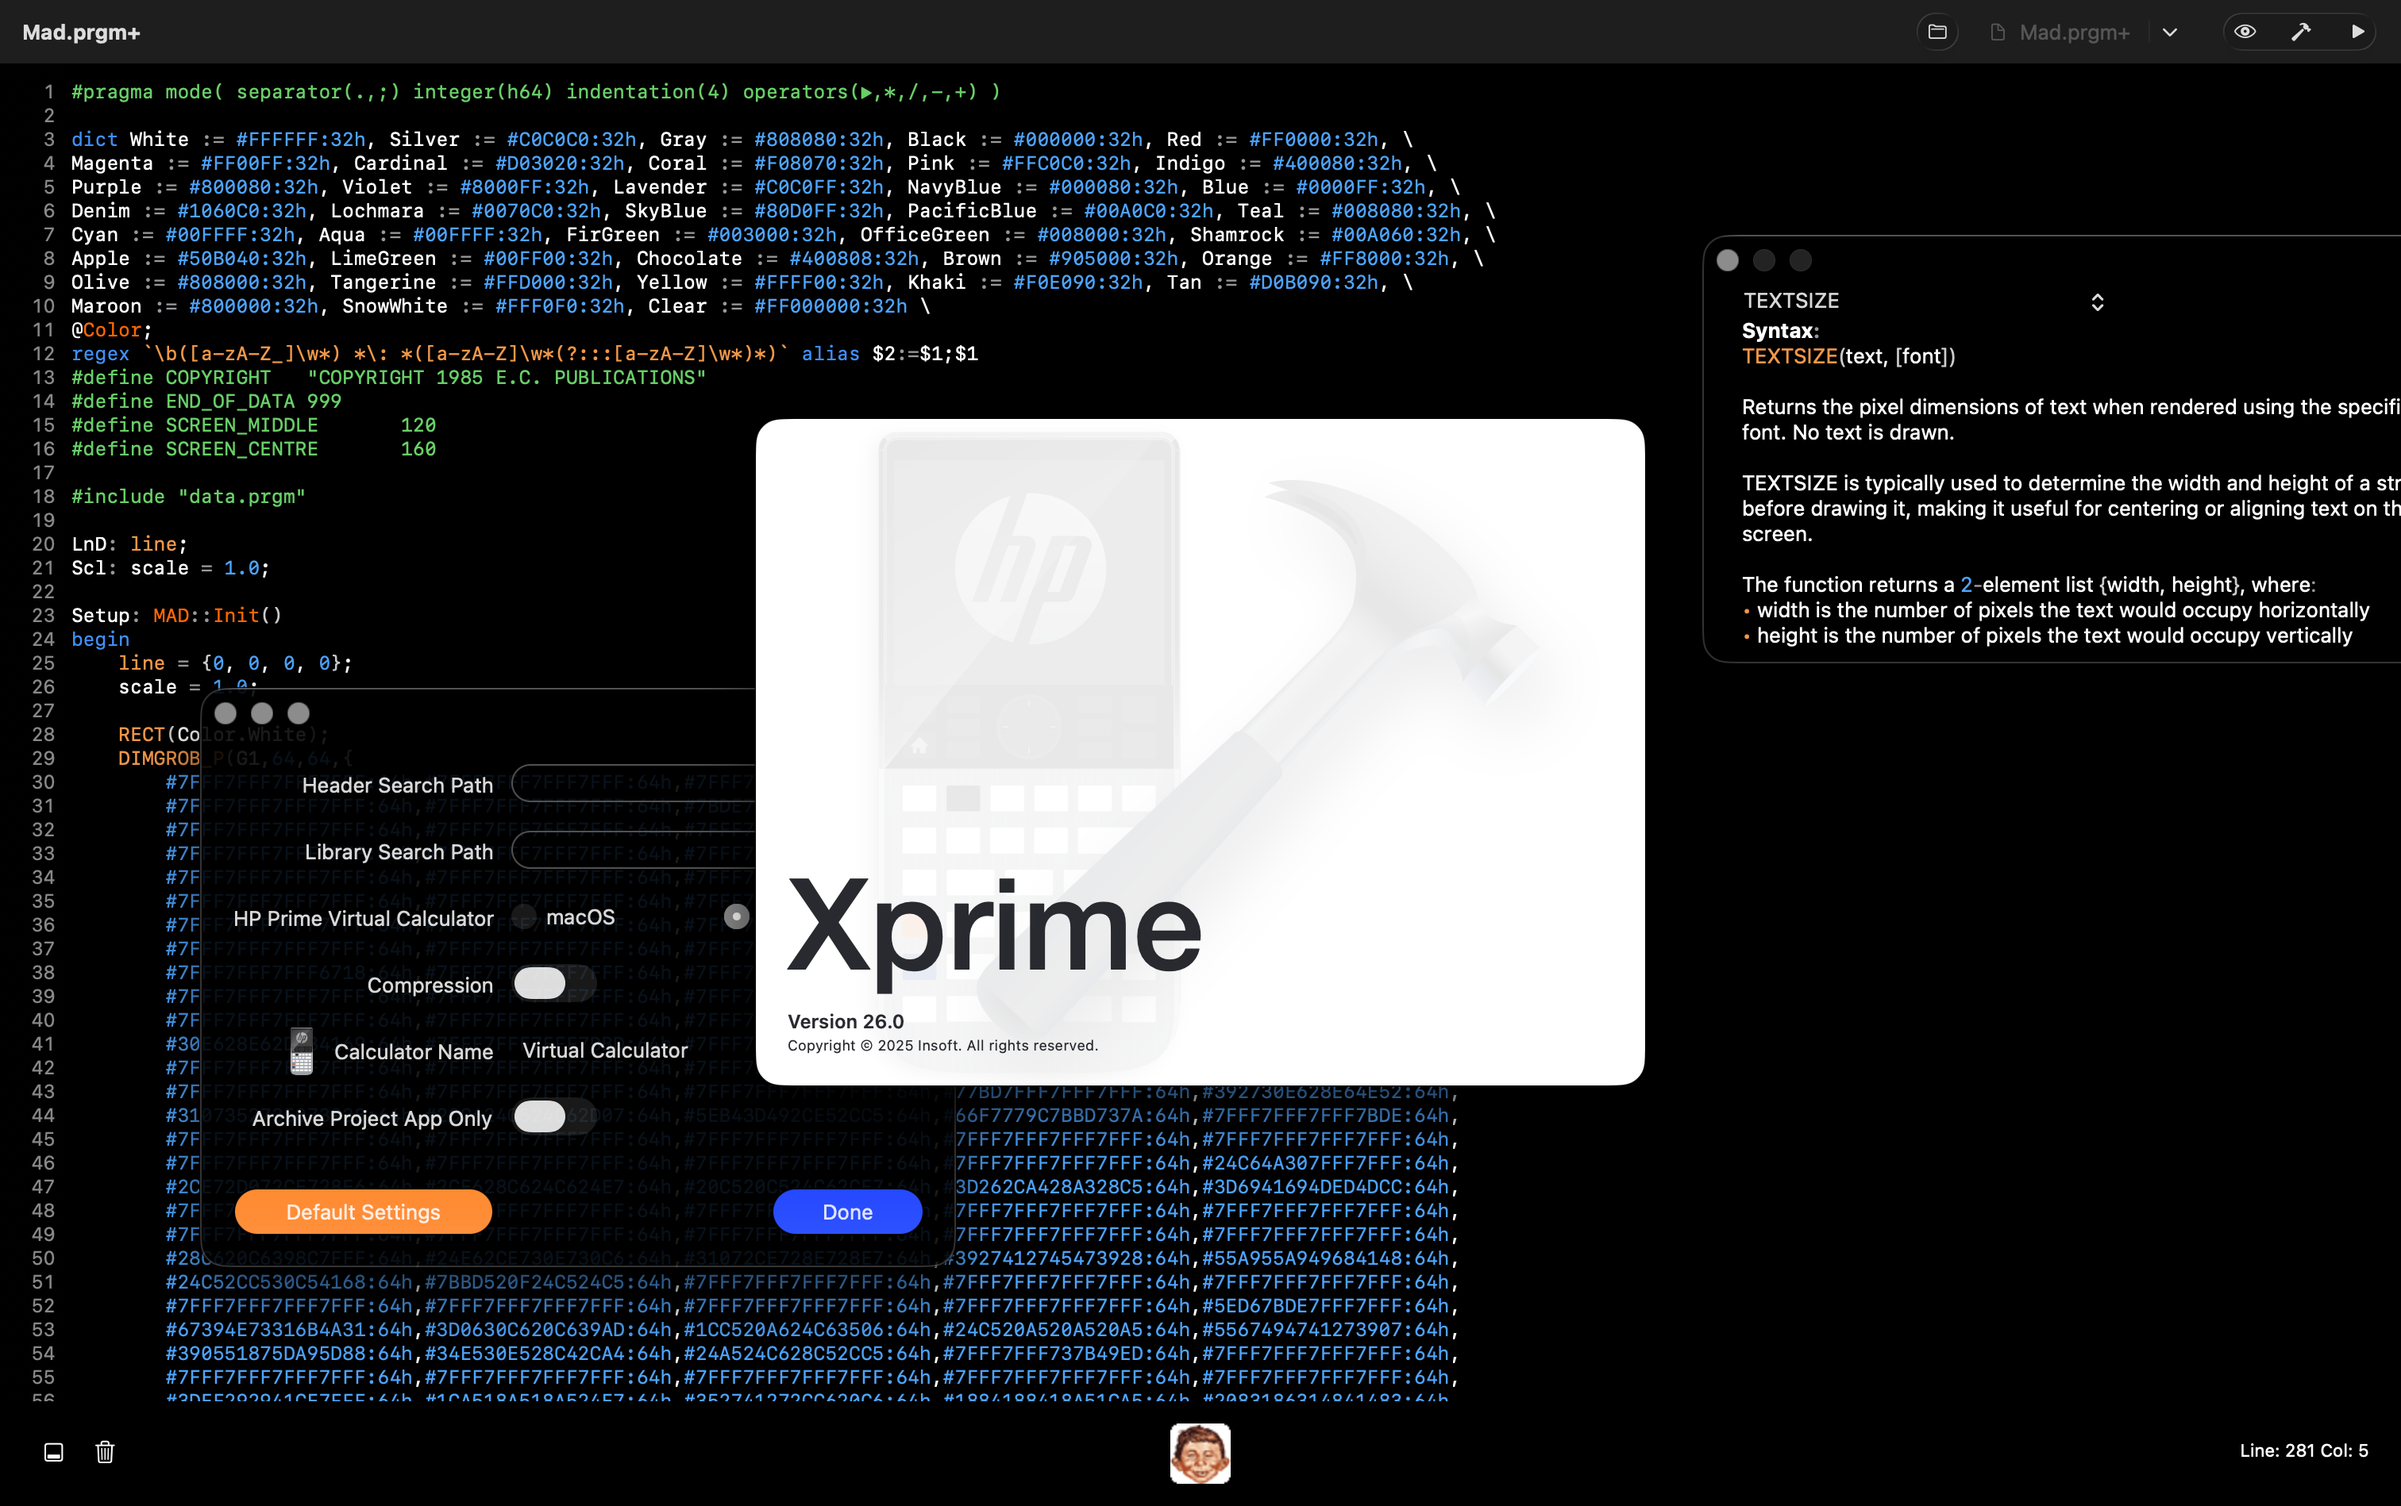
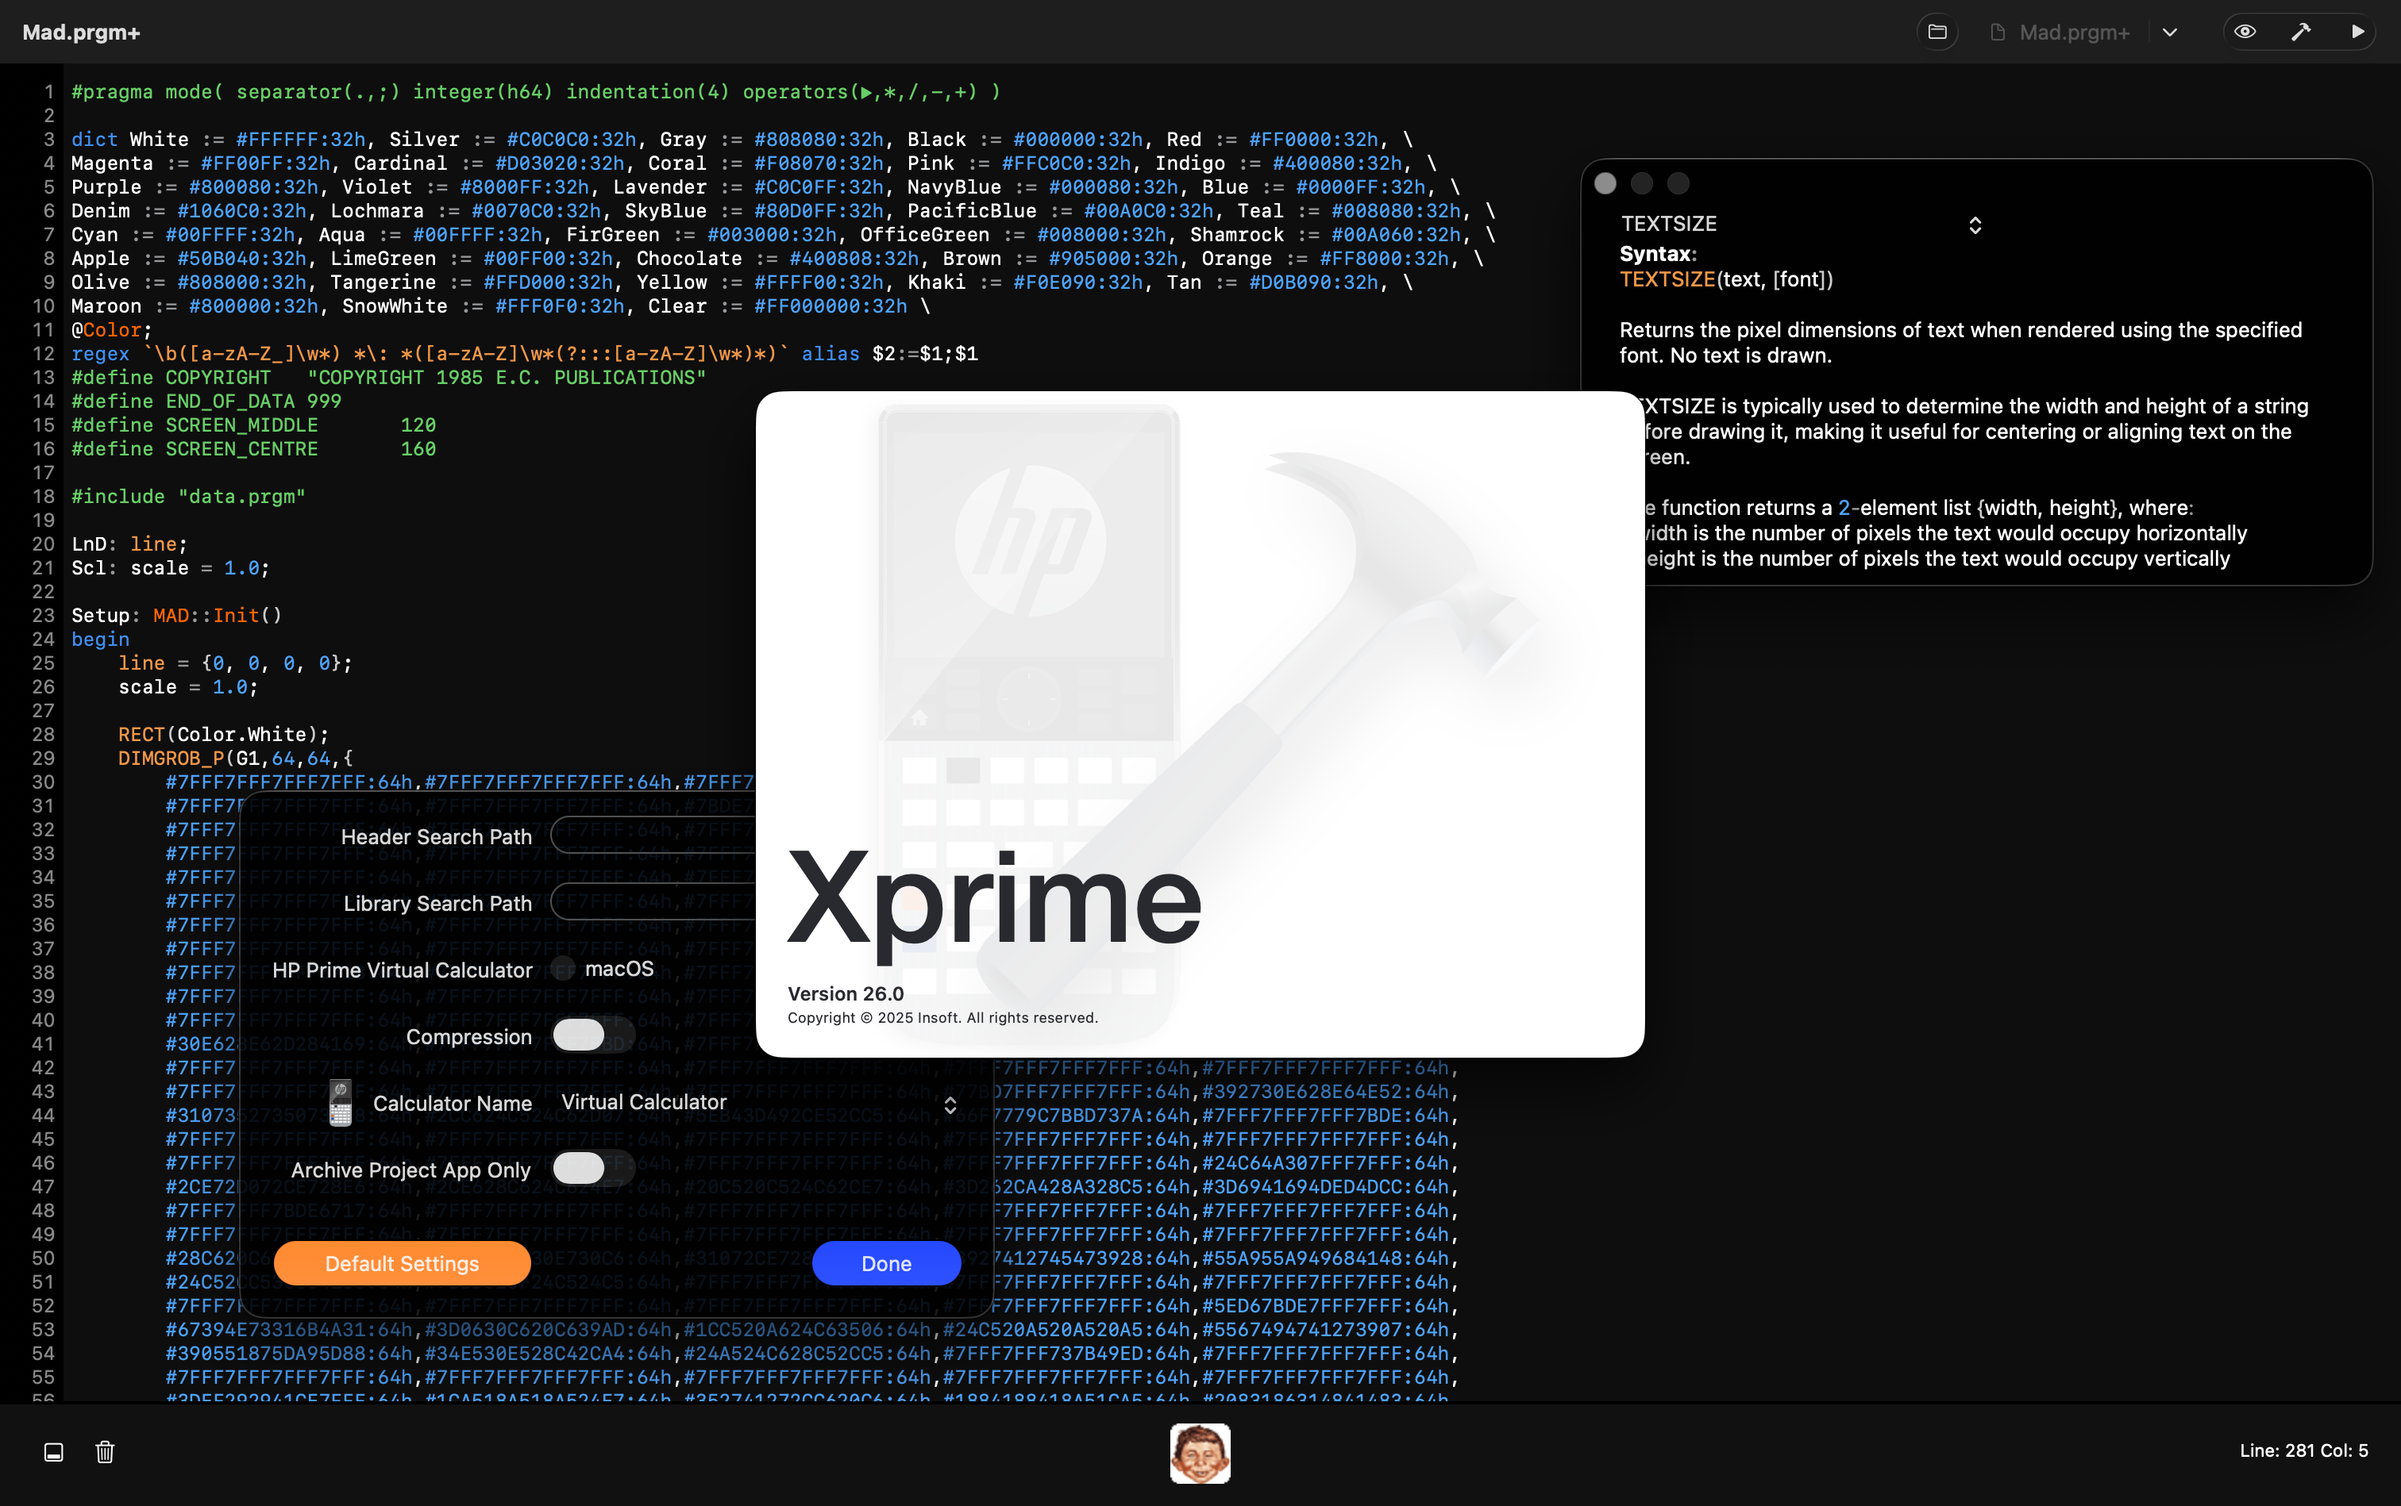
Update

Changed region(s): [[0.0622, 0.4663, 0.6839, 0.9015], [0.3108, 0.0933, 1.0, 0.4352]]

diff --git a/Xcode/Xprime/Features/Settings/Views/SettingsViewController.swift b/Xcode/Xprime/Features/Settings/Views/SettingsViewController.swift
@@ -98,13 +98,20 @@ final class SettingsViewController: NSViewController, NSTextFieldDelegate, NSCom
         
         guard let window = view.window else { return }
         
+        // Make window background transparent
         window.titleVisibility = .hidden
         window.isOpaque = false
         window.backgroundColor = NSColor(white: 0, alpha: 0.9)
         window.titlebarAppearsTransparent = true
+        
         window.center()
         window.level = .floating
         window.hasShadow = true
+        
+       
+        window.titlebarAppearsTransparent = true
+        window.styleMask = [.nonactivatingPanel, .titled]
+        window.styleMask.insert(.fullSizeContentView)
     }
     
     // MARK: - Calculator Selection
